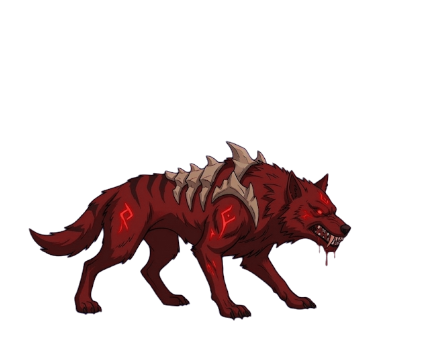
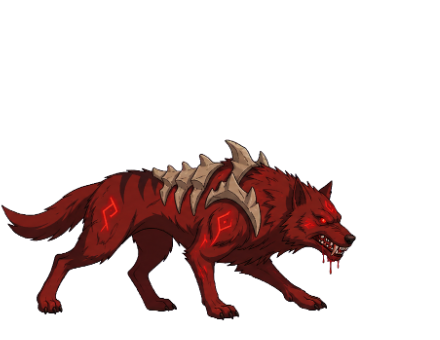
늑대 2종 걷기 새 그림(네 다리), 앱 아이콘 512 + 웹 아이콘 (ChatGPT)

Changed region(s): [[0.0, 0.4118, 0.8273, 0.9412]]

diff --git a/index.html b/index.html
@@ -3,6 +3,8 @@
 <head>
   <meta charset="UTF-8">
   <meta name="viewport" content="width=device-width, initial-scale=1.0, maximum-scale=1.0, user-scalable=no, viewport-fit=cover">
+  <link rel="icon" type="image/png" href="assets/icon_192.png">
+  <link rel="apple-touch-icon" href="assets/icon_192.png">
   <title>강호만검 : 무림생존록 (江湖萬劍 : 武林生存錄)</title>
   <script src="libs/three.min.js"></script>
   <link rel="stylesheet" href="css/style.css">

diff --git a/작업기록.md b/작업기록.md
@@ -309,3 +309,4 @@
 - 외형 3단계 새 옷 "흑룡포(黑龍袍)" 1,500 은자 (11-13 제미나이: 게임 속 서진 프레임으로 만든 기준 시트 hero_*_sheet_now.png 를 붙여 "같은 자세, 옷만" → assets/hero/seojin_heukryong_*). heroSheetPrefix() 로 그림 앞머리 바꿈. 요청 tools/gemini/gem_outfit.sh (OUTFIT·NAME 바꿔 다른 옷도).
 - 컷신을 그림 컷으로 교체 (11-13 사용자 결정): CINE_STILLS = true, assets/cinema/*.mp4·*.json 삭제(61MB → 그림 4.6MB, 원본은 구글 드라이브 cinema_src 와 git 기록). s5_02 는 "검을 부러뜨리는 자세"로 보여 ChatGPT 로 "칼끝을 맞대어 잇는" 장면으로 다시 그림.
 - 제미나이는 11-13 오전 Flash-Lite 로 바뀜(사용량 소진) — 5시간마다 다시 참.
+- ChatGPT 묶음 (11-13 오후, tools/gemini/gpt_batch_1113.sh): 혈마 늑대·흑풍 늑대 걷기 다시(네 다리), 앱 아이콘(store/app_icon_512.png + 웹 아이콘 assets/icon_192.png, index.html 에 연결), 당소연 시전 다시(assets_new/tangsoyeon_cast_gpt.png, 바탕 정확한 마젠타).

diff --git a/store/listing.md b/store/listing.md
@@ -2,7 +2,7 @@
 
 > 글자 수 제한: 앱 이름 30자 · 간단한 설명 80자 · 자세한 설명 4000자
 > 개인정보처리방침 주소: https://t-since.github.io/neon-survivor/privacy.html (연락처 이메일을 채운 뒤 사용)
-> 그림: `store/screenshots/*.jpg` (1920×1080, 6장) · `store/feature_graphic_1024x500.jpg` (그래픽 이미지) · 앱 아이콘 512×512 는 아직 없음
+> 그림: `store/screenshots/*.jpg` (1920×1080, 6장) · `store/feature_graphic_1024x500.jpg` (그래픽 이미지) · 앱 아이콘 `store/app_icon_512.png` (2026-11-13 ChatGPT)
 
 ---
 
